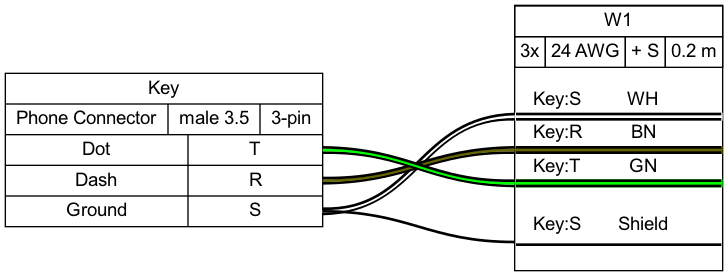
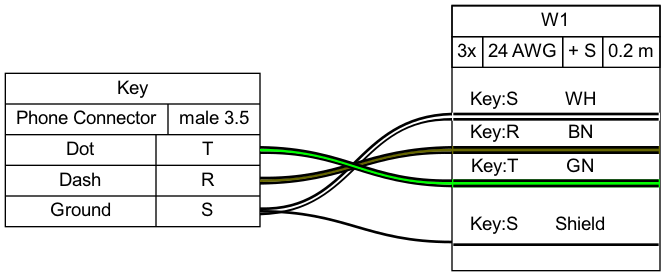
Update example 08 to hide pincount on 3.5mm jack

diff --git a/examples/ex08.html b/examples/ex08.html
@@ -4,95 +4,93 @@
 <!-- Generated by graphviz version 2.44.0 (20200408.0750)
  -->
 <!-- Pages: 1 -->
-<svg width="546pt" height="207pt"
- viewBox="0.00 0.00 546.00 207.00" xmlns="http://www.w3.org/2000/svg" xmlns:xlink="http://www.w3.org/1999/xlink">
+<svg width="499pt" height="207pt"
+ viewBox="0.00 0.00 499.00 207.00" xmlns="http://www.w3.org/2000/svg" xmlns:xlink="http://www.w3.org/1999/xlink">
 <g id="graph0" class="graph" transform="scale(1 1) rotate(0) translate(4 203)">
-<polygon fill="white" stroke="transparent" points="-4,4 -4,-203 542,-203 542,4 -4,4"/>
+<polygon fill="white" stroke="transparent" points="-4,4 -4,-203 495,-203 495,4 -4,4"/>
 <!-- Key -->
 <g id="node1" class="node">
 <title>Key</title>
-<polygon fill="white" stroke="black" points="0,-33 0,-148 238,-148 238,-33 0,-33"/>
-<text text-anchor="middle" x="119" y="-132.8" font-family="arial" font-size="14.00">Key</text>
-<polyline fill="none" stroke="black" points="0,-125 238,-125 "/>
+<polygon fill="white" stroke="black" points="0,-33 0,-148 191,-148 191,-33 0,-33"/>
+<text text-anchor="middle" x="95.5" y="-132.8" font-family="arial" font-size="14.00">Key</text>
+<polyline fill="none" stroke="black" points="0,-125 191,-125 "/>
 <text text-anchor="middle" x="61" y="-109.8" font-family="arial" font-size="14.00">Phone Connector</text>
 <polyline fill="none" stroke="black" points="122,-102 122,-125 "/>
 <text text-anchor="middle" x="156.5" y="-109.8" font-family="arial" font-size="14.00">male 3.5</text>
-<polyline fill="none" stroke="black" points="191,-102 191,-125 "/>
-<text text-anchor="middle" x="214.5" y="-109.8" font-family="arial" font-size="14.00">3&#45;pin</text>
-<polyline fill="none" stroke="black" points="0,-102 238,-102 "/>
-<text text-anchor="middle" x="68.5" y="-86.8" font-family="arial" font-size="14.00">Dot</text>
-<polyline fill="none" stroke="black" points="0,-79 137,-79 "/>
-<text text-anchor="middle" x="68.5" y="-63.8" font-family="arial" font-size="14.00">Dash</text>
-<polyline fill="none" stroke="black" points="0,-56 137,-56 "/>
-<text text-anchor="middle" x="68.5" y="-40.8" font-family="arial" font-size="14.00">Ground</text>
-<polyline fill="none" stroke="black" points="137,-33 137,-102 "/>
-<text text-anchor="middle" x="187.5" y="-86.8" font-family="arial" font-size="14.00">T</text>
-<polyline fill="none" stroke="black" points="137,-79 238,-79 "/>
-<text text-anchor="middle" x="187.5" y="-63.8" font-family="arial" font-size="14.00">R</text>
-<polyline fill="none" stroke="black" points="137,-56 238,-56 "/>
-<text text-anchor="middle" x="187.5" y="-40.8" font-family="arial" font-size="14.00">S</text>
+<polyline fill="none" stroke="black" points="0,-102 191,-102 "/>
+<text text-anchor="middle" x="56.5" y="-86.8" font-family="arial" font-size="14.00">Dot</text>
+<polyline fill="none" stroke="black" points="0,-79 113,-79 "/>
+<text text-anchor="middle" x="56.5" y="-63.8" font-family="arial" font-size="14.00">Dash</text>
+<polyline fill="none" stroke="black" points="0,-56 113,-56 "/>
+<text text-anchor="middle" x="56.5" y="-40.8" font-family="arial" font-size="14.00">Ground</text>
+<polyline fill="none" stroke="black" points="113,-33 113,-102 "/>
+<text text-anchor="middle" x="152" y="-86.8" font-family="arial" font-size="14.00">T</text>
+<polyline fill="none" stroke="black" points="113,-79 191,-79 "/>
+<text text-anchor="middle" x="152" y="-63.8" font-family="arial" font-size="14.00">R</text>
+<polyline fill="none" stroke="black" points="113,-56 191,-56 "/>
+<text text-anchor="middle" x="152" y="-40.8" font-family="arial" font-size="14.00">S</text>
 </g>
 <!-- W1 -->
 <g id="node2" class="node">
 <title>W1</title>
-<polygon fill="none" stroke="black" points="538,-199 382,-199 382,0 538,0 538,-199"/>
-<polygon fill="none" stroke="black" points="382,-175.5 382,-198.5 538,-198.5 538,-175.5 382,-175.5"/>
-<text text-anchor="start" x="449" y="-183.3" font-family="arial" font-size="14.00">W1</text>
-<polygon fill="none" stroke="black" points="382,-152.5 382,-175.5 405,-175.5 405,-152.5 382,-152.5"/>
-<text text-anchor="start" x="386" y="-160.3" font-family="arial" font-size="14.00">3x</text>
-<polygon fill="none" stroke="black" points="405,-152.5 405,-175.5 465,-175.5 465,-152.5 405,-152.5"/>
-<text text-anchor="start" x="409" y="-160.3" font-family="arial" font-size="14.00">24 AWG</text>
-<polygon fill="none" stroke="black" points="465,-152.5 465,-175.5 495,-175.5 495,-152.5 465,-152.5"/>
-<text text-anchor="start" x="469" y="-160.3" font-family="arial" font-size="14.00">+ S</text>
-<polygon fill="none" stroke="black" points="495,-152.5 495,-175.5 538,-175.5 538,-152.5 495,-152.5"/>
-<text text-anchor="start" x="499" y="-160.3" font-family="arial" font-size="14.00">0.2 m</text>
-<text text-anchor="start" x="458" y="-141.3" font-family="arial" font-size="14.00"> </text>
-<text text-anchor="start" x="395.5" y="-124.3" font-family="arial" font-size="14.00">Key:S</text>
-<text text-anchor="start" x="466.5" y="-124.3" font-family="arial" font-size="14.00">WH</text>
-<polygon fill="#ffffff" stroke="transparent" points="382,-112.5 382,-118.5 538,-118.5 538,-112.5 382,-112.5"/>
-<polyline fill="none" stroke="black" stroke-width="2" points="383,-113.5 537,-113.5 "/>
-<polyline fill="none" stroke="black" stroke-width="2" points="537,-117.5 383,-117.5 "/>
-<text text-anchor="start" x="395.5" y="-99.3" font-family="arial" font-size="14.00">Key:R</text>
-<text text-anchor="start" x="469" y="-99.3" font-family="arial" font-size="14.00">BN</text>
-<polygon fill="#666600" stroke="transparent" stroke-width="2" points="382,-87.5 382,-93.5 538,-93.5 538,-87.5 382,-87.5"/>
-<polyline fill="none" stroke="black" stroke-width="2" points="383,-88.5 537,-88.5 "/>
-<polyline fill="none" stroke="black" stroke-width="2" points="537,-92.5 383,-92.5 "/>
-<text text-anchor="start" x="396" y="-74.3" font-family="arial" font-size="14.00">Key:T</text>
-<text text-anchor="start" x="467.5" y="-74.3" font-family="arial" font-size="14.00">GN</text>
-<polygon fill="#00ff00" stroke="transparent" stroke-width="2" points="382,-62.5 382,-68.5 538,-68.5 538,-62.5 382,-62.5"/>
-<polyline fill="none" stroke="black" stroke-width="2" points="383,-63.5 537,-63.5 "/>
-<polyline fill="none" stroke="black" stroke-width="2" points="537,-67.5 383,-67.5 "/>
-<text text-anchor="start" x="412" y="-49.3" font-family="arial" font-size="14.00"> </text>
-<text text-anchor="start" x="395.5" y="-30.3" font-family="arial" font-size="14.00">Key:S</text>
-<text text-anchor="start" x="459.5" y="-30.3" font-family="arial" font-size="14.00">Shield</text>
-<polyline fill="none" stroke="black" stroke-width="2" points="383,-19.5 537,-19.5 "/>
-<text text-anchor="start" x="412" y="-5.3" font-family="arial" font-size="14.00"> </text>
+<polygon fill="none" stroke="black" points="491,-199 335,-199 335,0 491,0 491,-199"/>
+<polygon fill="none" stroke="black" points="335,-175.5 335,-198.5 491,-198.5 491,-175.5 335,-175.5"/>
+<text text-anchor="start" x="402" y="-183.3" font-family="arial" font-size="14.00">W1</text>
+<polygon fill="none" stroke="black" points="335,-152.5 335,-175.5 358,-175.5 358,-152.5 335,-152.5"/>
+<text text-anchor="start" x="339" y="-160.3" font-family="arial" font-size="14.00">3x</text>
+<polygon fill="none" stroke="black" points="358,-152.5 358,-175.5 418,-175.5 418,-152.5 358,-152.5"/>
+<text text-anchor="start" x="362" y="-160.3" font-family="arial" font-size="14.00">24 AWG</text>
+<polygon fill="none" stroke="black" points="418,-152.5 418,-175.5 448,-175.5 448,-152.5 418,-152.5"/>
+<text text-anchor="start" x="422" y="-160.3" font-family="arial" font-size="14.00">+ S</text>
+<polygon fill="none" stroke="black" points="448,-152.5 448,-175.5 491,-175.5 491,-152.5 448,-152.5"/>
+<text text-anchor="start" x="452" y="-160.3" font-family="arial" font-size="14.00">0.2 m</text>
+<text text-anchor="start" x="411" y="-141.3" font-family="arial" font-size="14.00"> </text>
+<text text-anchor="start" x="348.5" y="-124.3" font-family="arial" font-size="14.00">Key:S</text>
+<text text-anchor="start" x="419.5" y="-124.3" font-family="arial" font-size="14.00">WH</text>
+<polygon fill="#ffffff" stroke="transparent" points="335,-112.5 335,-118.5 491,-118.5 491,-112.5 335,-112.5"/>
+<polyline fill="none" stroke="black" stroke-width="2" points="336,-113.5 490,-113.5 "/>
+<polyline fill="none" stroke="black" stroke-width="2" points="490,-117.5 336,-117.5 "/>
+<text text-anchor="start" x="348.5" y="-99.3" font-family="arial" font-size="14.00">Key:R</text>
+<text text-anchor="start" x="422" y="-99.3" font-family="arial" font-size="14.00">BN</text>
+<polygon fill="#666600" stroke="transparent" stroke-width="2" points="335,-87.5 335,-93.5 491,-93.5 491,-87.5 335,-87.5"/>
+<polyline fill="none" stroke="black" stroke-width="2" points="336,-88.5 490,-88.5 "/>
+<polyline fill="none" stroke="black" stroke-width="2" points="490,-92.5 336,-92.5 "/>
+<text text-anchor="start" x="349" y="-74.3" font-family="arial" font-size="14.00">Key:T</text>
+<text text-anchor="start" x="420.5" y="-74.3" font-family="arial" font-size="14.00">GN</text>
+<polygon fill="#00ff00" stroke="transparent" stroke-width="2" points="335,-62.5 335,-68.5 491,-68.5 491,-62.5 335,-62.5"/>
+<polyline fill="none" stroke="black" stroke-width="2" points="336,-63.5 490,-63.5 "/>
+<polyline fill="none" stroke="black" stroke-width="2" points="490,-67.5 336,-67.5 "/>
+<text text-anchor="start" x="365" y="-49.3" font-family="arial" font-size="14.00"> </text>
+<text text-anchor="start" x="348.5" y="-30.3" font-family="arial" font-size="14.00">Key:S</text>
+<text text-anchor="start" x="412.5" y="-30.3" font-family="arial" font-size="14.00">Shield</text>
+<polyline fill="none" stroke="black" stroke-width="2" points="336,-19.5 490,-19.5 "/>
+<text text-anchor="start" x="365" y="-5.3" font-family="arial" font-size="14.00"> </text>
 </g>
 <!-- Key&#45;&#45;W1 -->
 <g id="edge1" class="edge">
 <title>Key:e&#45;&#45;W1:w</title>
-<path fill="none" stroke="#000000" stroke-width="2" d="M238,-42.5C311.36,-44.46 312.64,-115.46 382,-113.5"/>
-<path fill="none" stroke="#ffffff" stroke-width="2" d="M238,-44.5C309.36,-44.5 310.64,-115.5 382,-115.5"/>
-<path fill="none" stroke="#000000" stroke-width="2" d="M238,-46.5C307.36,-44.54 308.64,-115.54 382,-117.5"/>
+<path fill="none" stroke="#000000" stroke-width="2" d="M191,-42.5C264.36,-44.46 265.64,-115.46 335,-113.5"/>
+<path fill="none" stroke="#ffffff" stroke-width="2" d="M191,-44.5C262.36,-44.5 263.64,-115.5 335,-115.5"/>
+<path fill="none" stroke="#000000" stroke-width="2" d="M191,-46.5C260.36,-44.54 261.64,-115.54 335,-117.5"/>
 </g>
 <!-- Key&#45;&#45;W1 -->
 <g id="edge2" class="edge">
 <title>Key:e&#45;&#45;W1:w</title>
-<path fill="none" stroke="#000000" stroke-width="2" d="M238,-65.5C304.51,-66.44 318.88,-89.44 382,-88.5"/>
-<path fill="none" stroke="#666600" stroke-width="2" d="M238,-67.5C302.81,-67.5 317.19,-90.5 382,-90.5"/>
-<path fill="none" stroke="#000000" stroke-width="2" d="M238,-69.5C301.12,-68.56 315.49,-91.56 382,-92.5"/>
+<path fill="none" stroke="#000000" stroke-width="2" d="M191,-65.5C257.51,-66.44 271.88,-89.44 335,-88.5"/>
+<path fill="none" stroke="#666600" stroke-width="2" d="M191,-67.5C255.81,-67.5 270.19,-90.5 335,-90.5"/>
+<path fill="none" stroke="#000000" stroke-width="2" d="M191,-69.5C254.12,-68.56 268.49,-91.56 335,-92.5"/>
 </g>
 <!-- Key&#45;&#45;W1 -->
 <g id="edge3" class="edge">
 <title>Key:e&#45;&#45;W1:w</title>
-<path fill="none" stroke="#000000" stroke-width="2" d="M238,-88.5C301.21,-89.52 315.3,-64.52 382,-63.5"/>
-<path fill="none" stroke="#00ff00" stroke-width="2" d="M238,-90.5C302.96,-90.5 317.04,-65.5 382,-65.5"/>
-<path fill="none" stroke="#000000" stroke-width="2" d="M238,-92.5C304.7,-91.48 318.79,-66.48 382,-67.5"/>
+<path fill="none" stroke="#000000" stroke-width="2" d="M191,-88.5C254.21,-89.52 268.3,-64.52 335,-63.5"/>
+<path fill="none" stroke="#00ff00" stroke-width="2" d="M191,-90.5C255.96,-90.5 270.04,-65.5 335,-65.5"/>
+<path fill="none" stroke="#000000" stroke-width="2" d="M191,-92.5C257.7,-91.48 271.79,-66.48 335,-67.5"/>
 </g>
 <!-- Key&#45;&#45;W1 -->
 <g id="edge4" class="edge">
 <title>Key:e&#45;&#45;W1:w</title>
-<path fill="none" stroke="#000000" stroke-width="2" d="M238,-44.5C302.81,-44.5 317.19,-21.5 382,-21.5"/>
+<path fill="none" stroke="#000000" stroke-width="2" d="M191,-44.5C255.81,-44.5 270.19,-21.5 335,-21.5"/>
 </g>
 </g>
 </svg>
